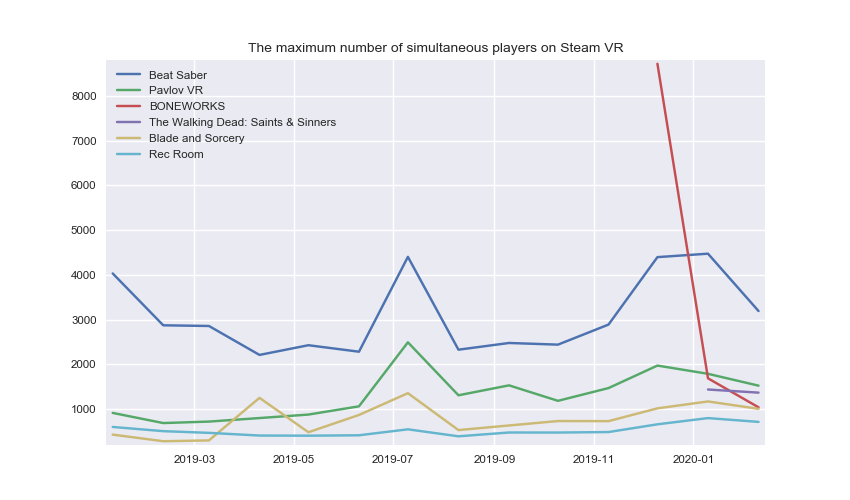
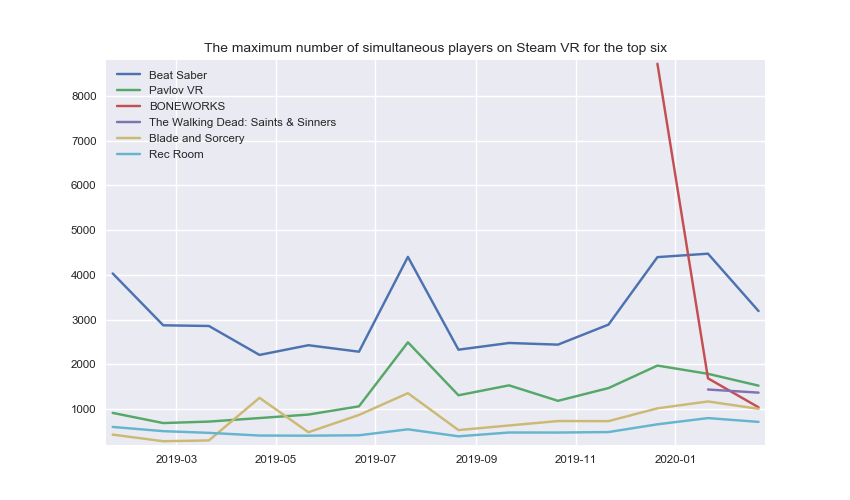
update

diff --git a/src/create_charts.py b/src/create_charts.py
@@ -44,9 +44,21 @@ def sql_max_peak_players(appid):
     c.execute(f'''
     SELECT strftime('%Y-%m', date) as new_date, 
     max(players) as average from vr_players
-    WHERE appid ="{appid}"  and date >= '2019' and date != '2019-07-24' and date < date('now','start of month')
+    WHERE appid ='{appid}'  and date >= '2019' and date != '2019-07-24' and date < date('now','start of month')
     GROUP by new_date
     ''')
+    return c.fetchall()
+
+
+def sql_max_peak_players_monthly(month):
+    """Returns the monthly peak values (sum) of all games as a list."""
+    c.execute(f'''
+    SELECT strftime('%d', date), sum(players) from (
+    SELECT date, players from vr_players
+    WHERE date like '{month}%')
+    GROUP by date
+    ''')
+    # print(c.fetchall())
     return c.fetchall()
 
 
@@ -84,17 +96,19 @@ def top10_chart(sql_data):
     sns.despine(left=True, bottom=True)
 
 
-def peak_players_chart(sql_data, chart_title, legend=""):
+def peak_players_chart(sql_data, chart_title, legend="", location="upper left"):
     """Creates a chart which shows the peak values with the matplotlib library."""
     dates_list = []
     players_list = []
     for date, players in sql_data:
-        dates_list.append(parser.parse(date))     # formatting string into date
+        if len(date) > 2:
+            date = parser.parse(date)  # formatting string into date
+        dates_list.append(date)
         players_list.append(players)
     plt.title(chart_title)
     if legend:
         plt.plot(dates_list, players_list, label=legend)
-        plt.legend(loc="upper left")
+        plt.legend(loc=location)
     else:
         plt.plot(dates_list, players_list)
     plt.grid(True)
@@ -133,18 +147,29 @@ def main():
     # Creates the charts with the data from the sql queries and saves them
     chart_title = "Steam VR usage of all VR games based on the monthly average" \
                   " of the daily peak values"
-    peak_players_chart(sql_peak_players(), chart_title)
+    sql = sql_peak_players()
+    peak_players_chart(sql, chart_title)
     plt.savefig('../images/avg_peak_over_time.png')
 
     plt.subplots()
-    chart_title = "The maximum number of simultaneous players on Steam VR"
-    top10sql = sql_top10()
-    for appid, name, *_ in top10sql[:6]:
+    chart_title = "The maximum number of simultaneous players on Steam VR for the top six"
+    sql = sql_top10()
+    for appid, name, *_ in sql[:6]:
         peak_players_chart(sql_max_peak_players(appid), chart_title, name)
     plt.savefig('../images/max_peak.png')
 
-    top10_chart(top10sql)
+    top10_chart(sql)
     plt.savefig('../images/top10_2020.png')
+
+    plt.subplots()
+    chart_title = "VR usage of the last 2 months based on " \
+                  "the sum of the daily peak values of all Steam VR only games"
+    months = ("2020-01", "2020-02")
+    for month in months:
+        sql = sql_max_peak_players_monthly(month)
+        peak_players_chart(sql, chart_title, month, location='upper right')
+    plt.savefig('../images/monthly_vrusage.png')
+
     conn.close()
 
     # Displays the charts

diff --git a/README.md b/README.md
@@ -4,5 +4,6 @@ This project analyses all Steam VR only games and determines the daily number of
   <img width="850" height="500" src="https://github.com/Bamux/Steam_VR_Statistics/blob/master/images/top10_2020.png">
   <img width="850" height="500" src="https://github.com/Bamux/Steam_VR_Statistics/blob/master/images/avg_peak_over_time.png">
   <img width="850" height="500" src="https://github.com/Bamux/Steam_VR_Statistics/blob/master/images/max_peak.png">
+  <img width="850" height="500" src="https://github.com/Bamux/Steam_VR_Statistics/blob/master/images/monthly_vrusage.png">
 </p>
 
